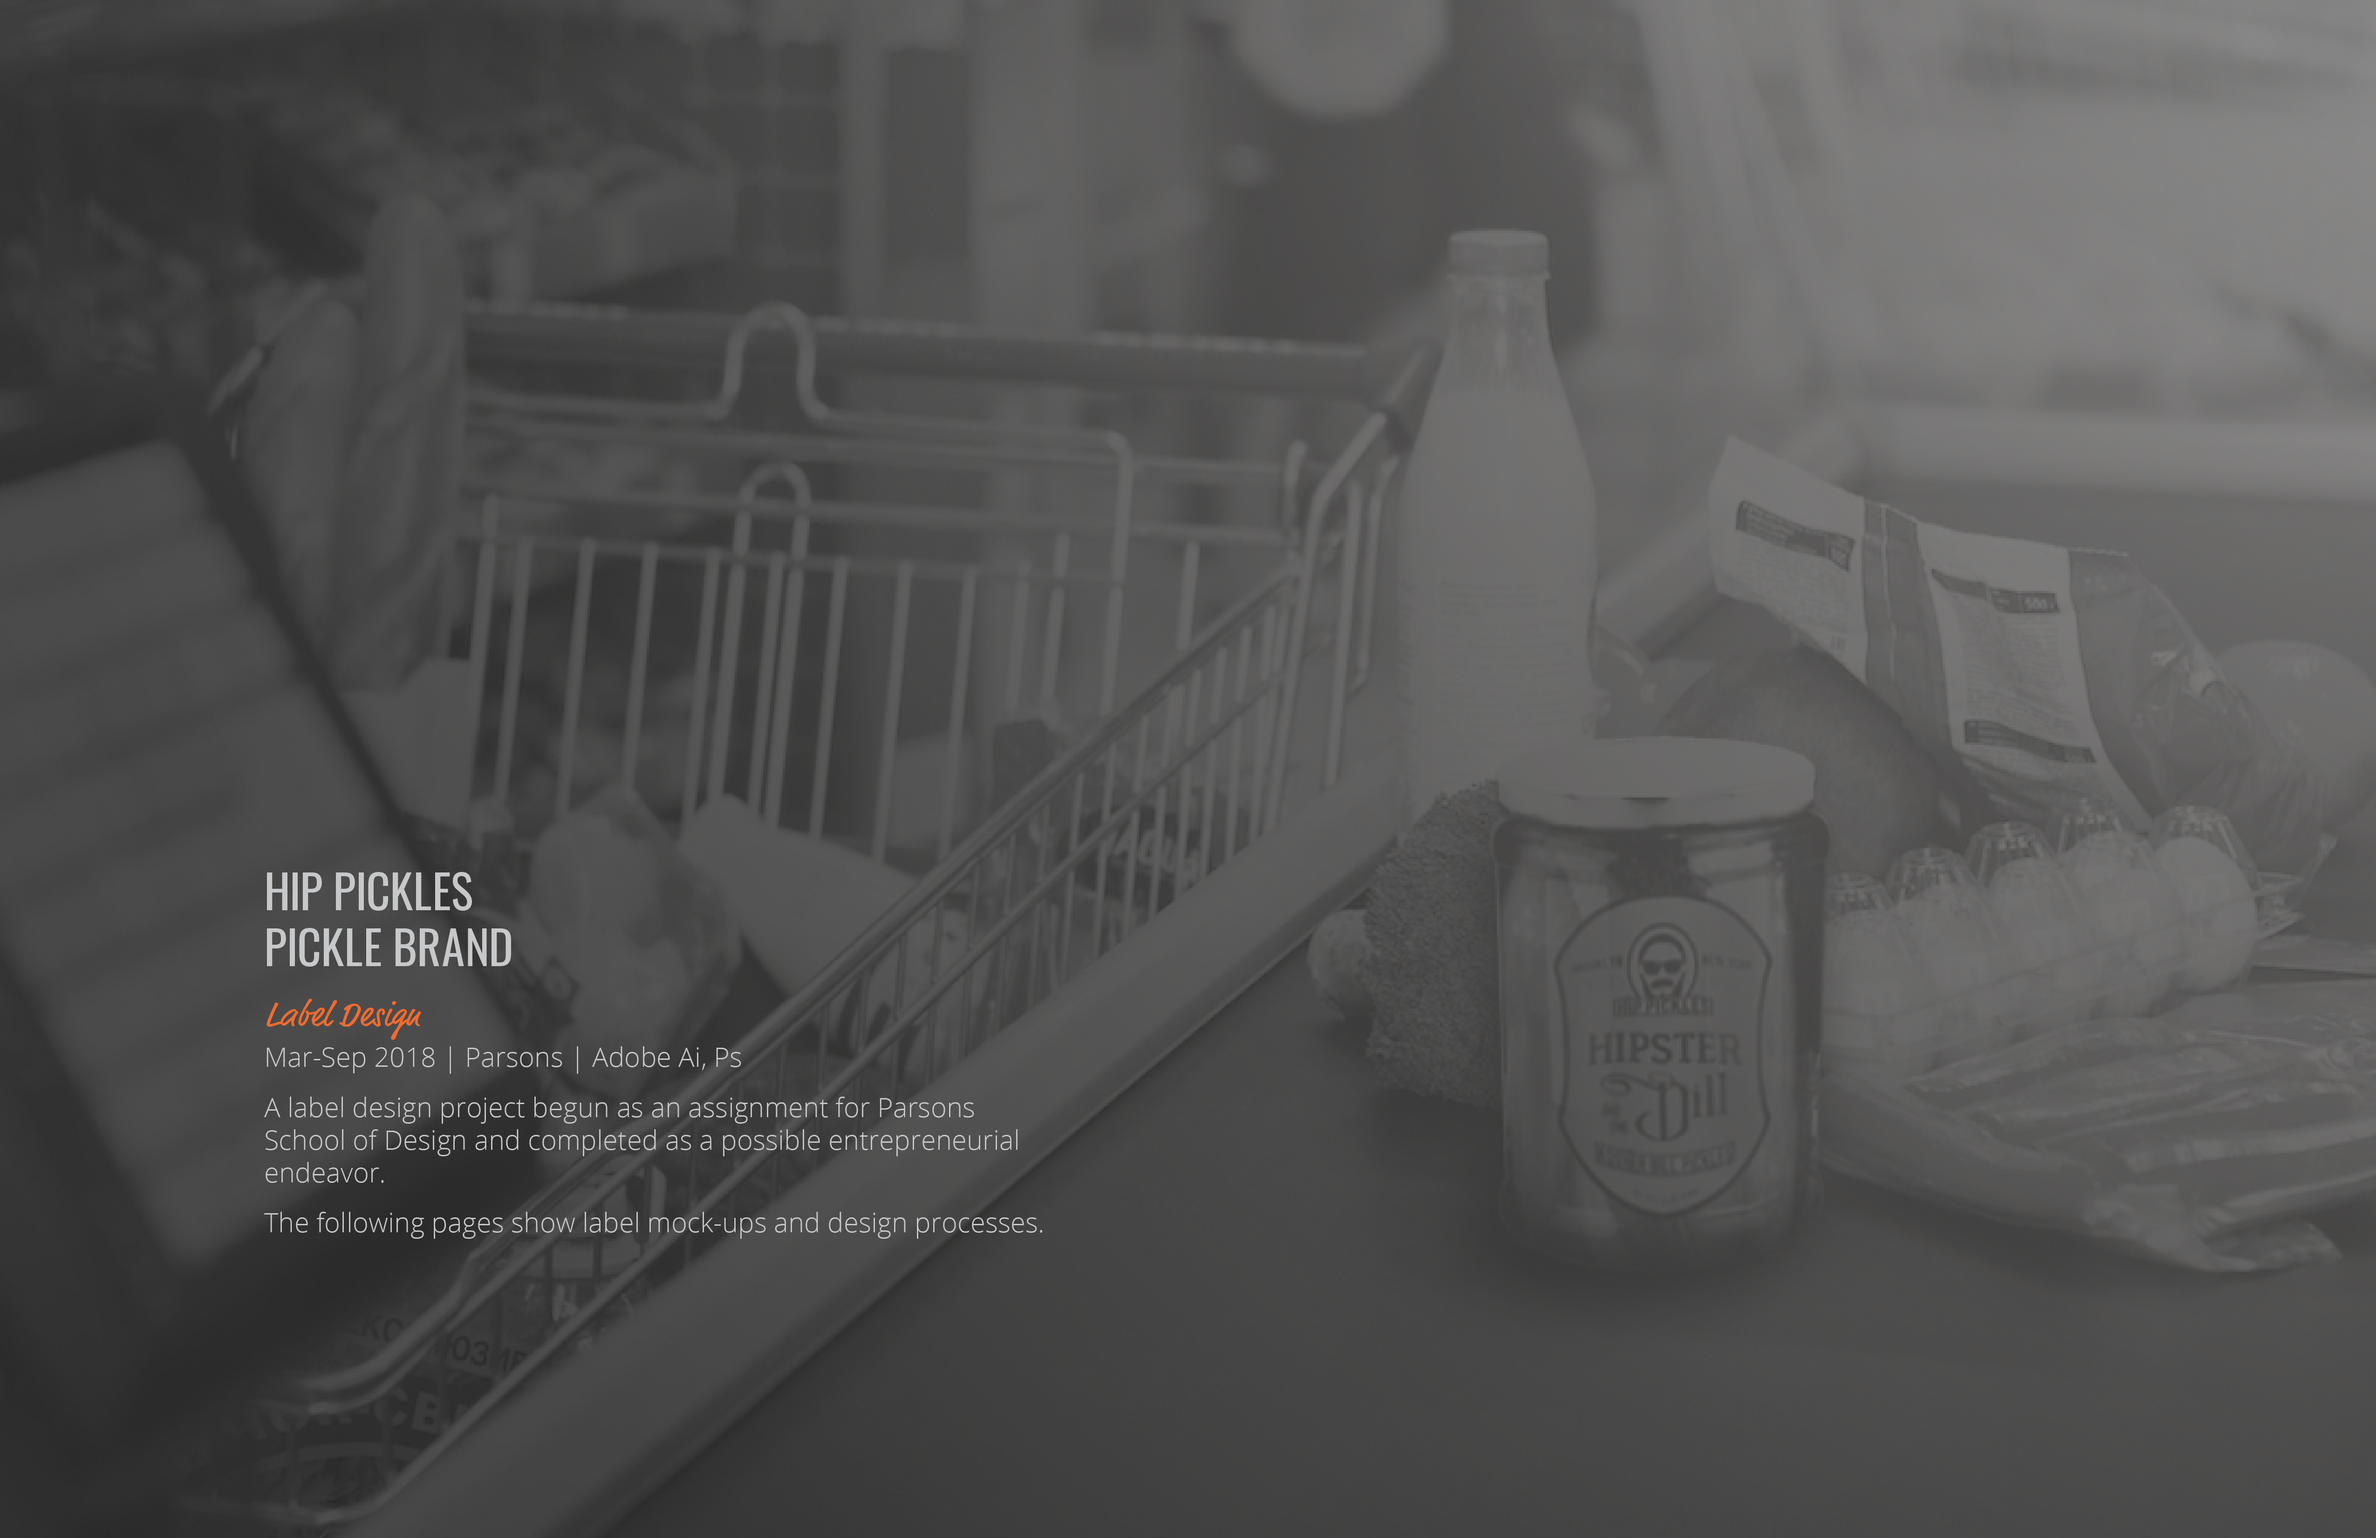
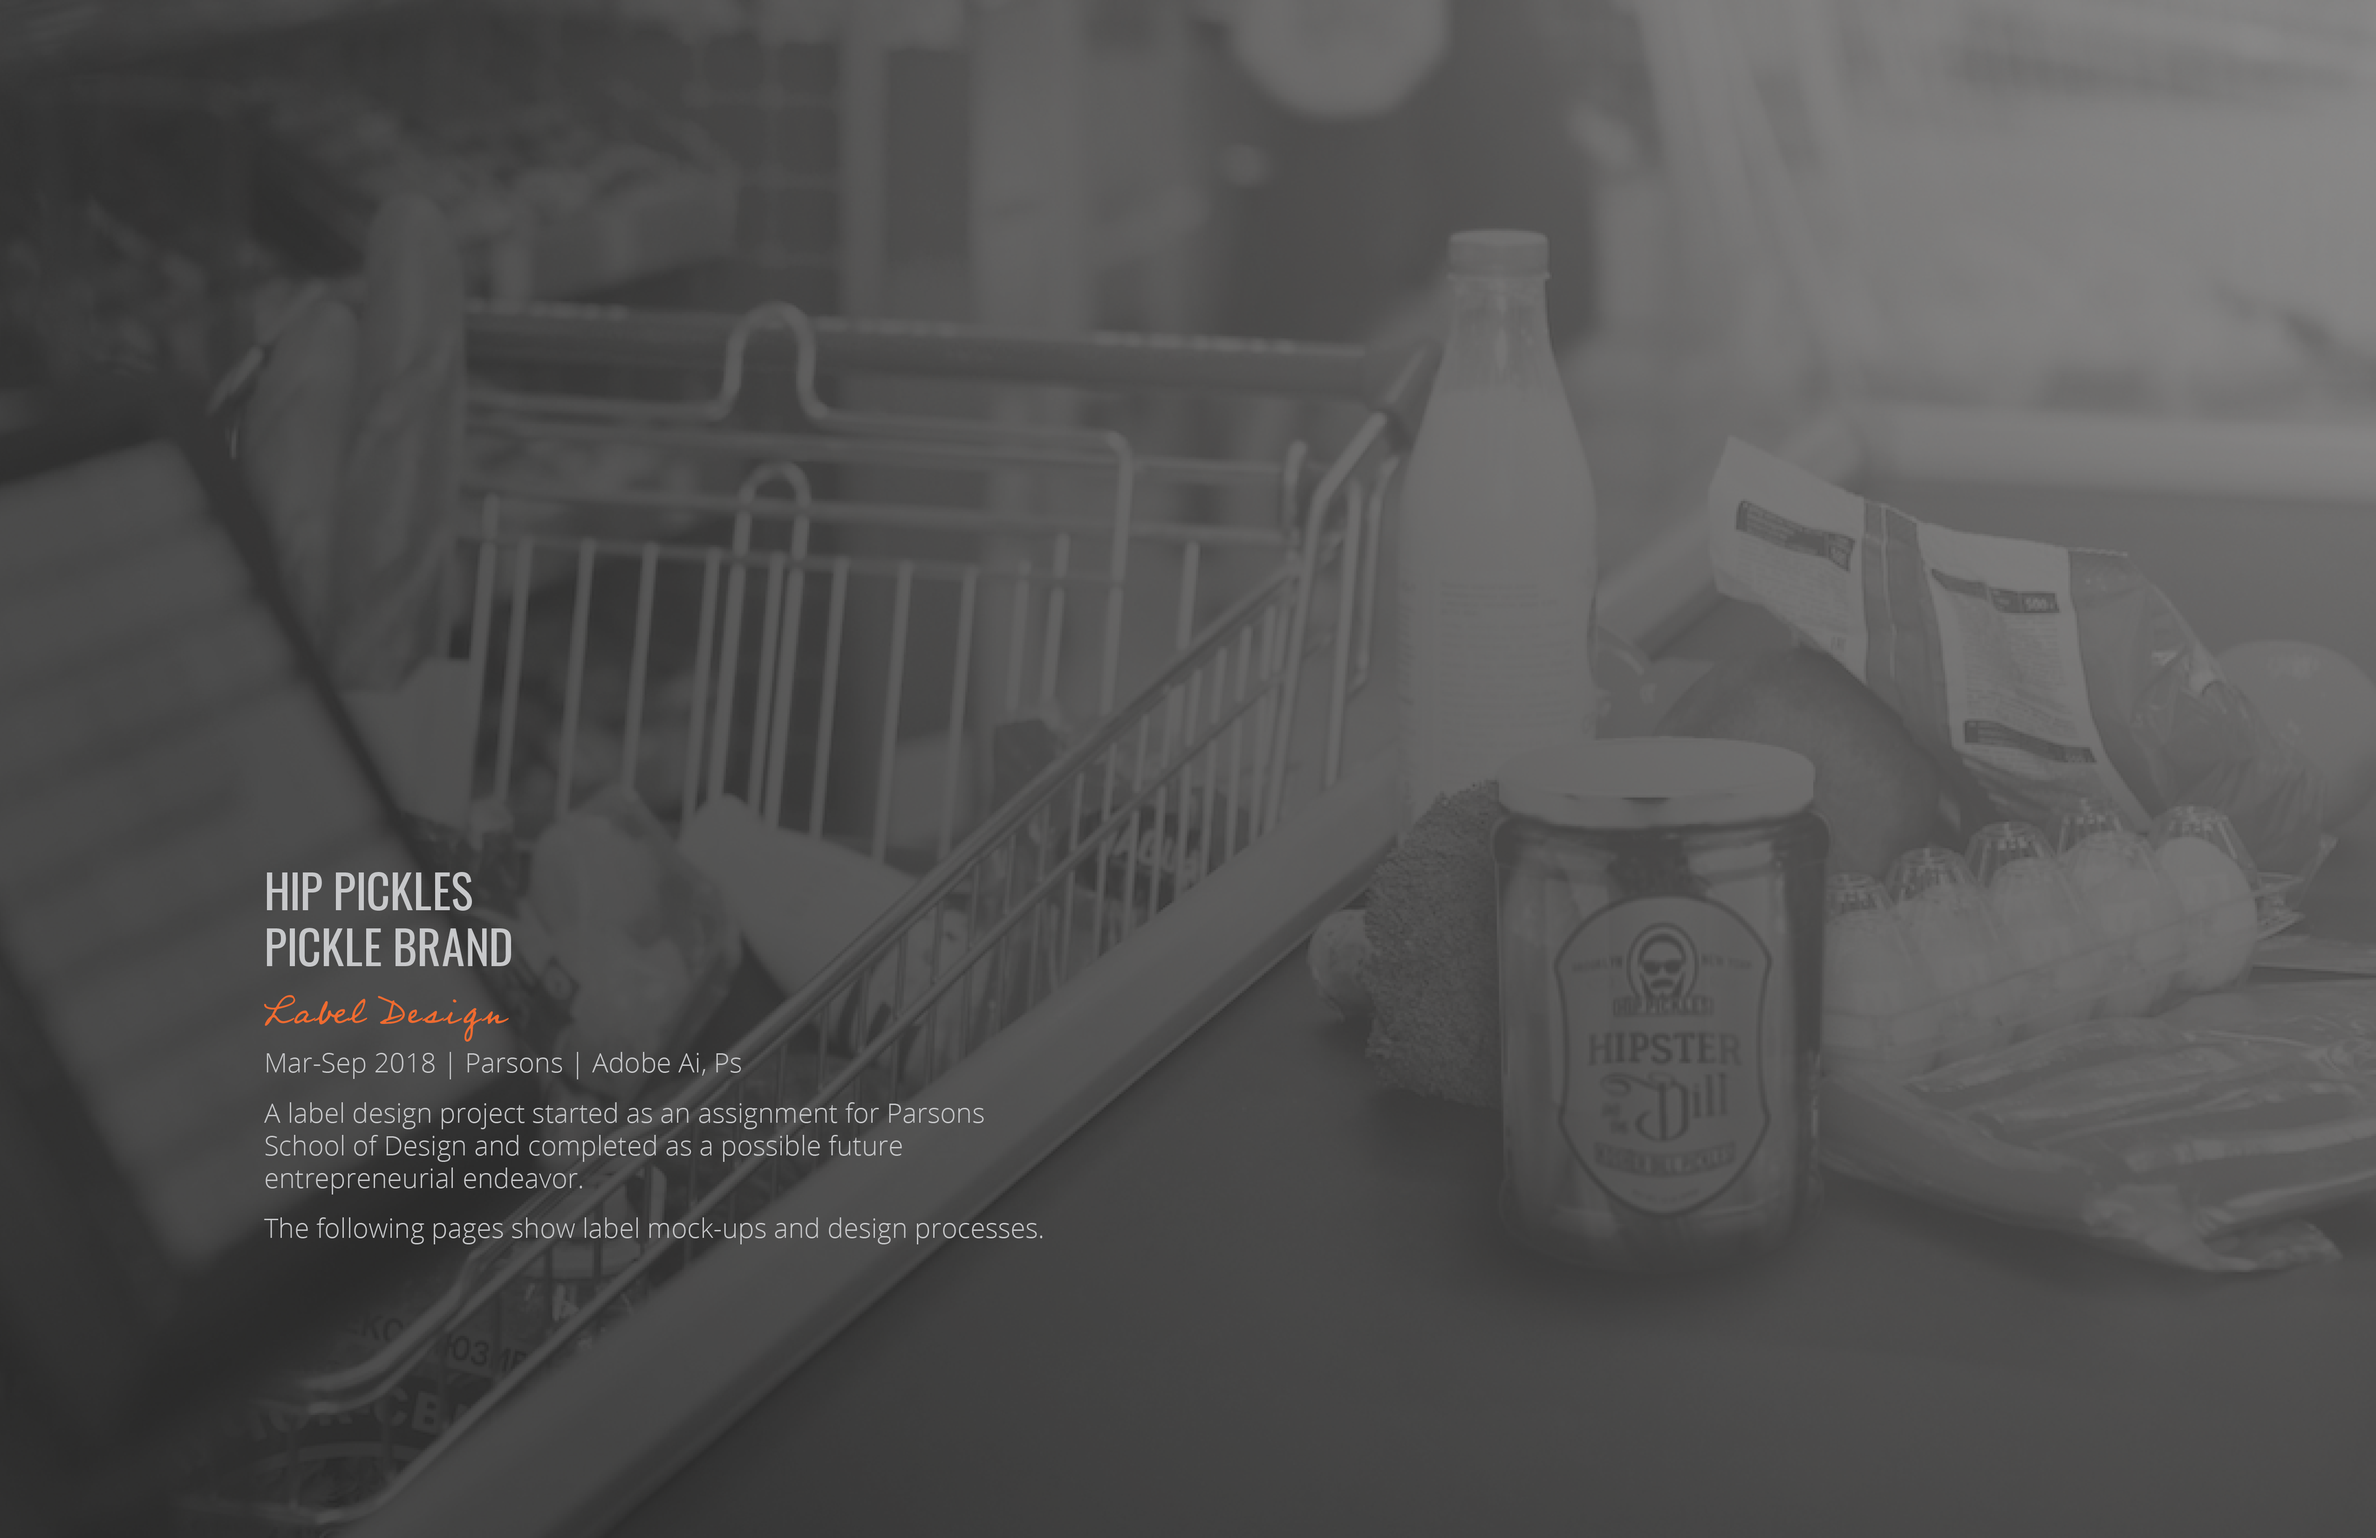
Added Many Image Folders

Changed region(s): [[0.1247, 0.6555, 0.4365, 0.8115]]

diff --git a/ice.html b/ice.html
@@ -25,14 +25,14 @@
 			<!-- <p>Below is an experimental rebrand project I created for The Institute of Culinary Education. Currently, the organization shortens the name to "ICE." I chose instead to focus on "The Institute" and moving toward a logo that is representative of the culinary arts.
 			</p> -->
 			<figure>
-				<img src="images/Display_ICE/Porfolio_ICE1.png" alt="Cover &ndash; The Institute of Culinary Education">
-				<img src="images/Display_ICE/Porfolio_ICE2.png" alt="Lobby &ndash; The Institute of Culinary Education">
-				<img src="images/Display_ICE/Porfolio_ICE3.png" alt="Business Cards &ndash; The Institute of Culinary Education">
-				<img src="images/Display_ICE/Porfolio_ICE4.png" alt="Digital &ndash; The Institute of Culinary Education">
-				<img src="images/Display_ICE/Porfolio_ICE5.png" alt="Brochure &ndash; The Institute of Culinary Education">
-				<img src="images/Display_ICE/Porfolio_ICE6.png" alt="Posters &ndash; The Institute of Culinary Education">
-				<img src="images/Display_ICE/Porfolio_ICE7.png" alt="Process &ndash; The Institute of Culinary Education">
-				<img src="images/Display_ICE/Porfolio_ICE8.png" alt="Style Guide &ndash; The Institute of Culinary Education">
+				<img src="images/Display_ICE/Porfolio_ICE_page_1.png" alt="Cover &ndash; The Institute of Culinary Education">
+				<img src="images/Display_ICE/Porfolio_ICE_page_2.png" alt="Lobby &ndash; The Institute of Culinary Education">
+				<img src="images/Display_ICE/Porfolio_ICE_page_3.png" alt="Business Cards &ndash; The Institute of Culinary Education">
+				<img src="images/Display_ICE/Porfolio_ICE_page_4.png" alt="Digital &ndash; The Institute of Culinary Education">
+				<img src="images/Display_ICE/Porfolio_ICE_page_5.png" alt="Brochure &ndash; The Institute of Culinary Education">
+				<img src="images/Display_ICE/Porfolio_ICE_page_6.png" alt="Posters &ndash; The Institute of Culinary Education">
+				<img src="images/Display_ICE/Porfolio_ICE_page_7.png" alt="Process &ndash; The Institute of Culinary Education">
+				<img src="images/Display_ICE/Porfolio_ICE_page_8.png" alt="Style Guide &ndash; The Institute of Culinary Education">
 			</figure>
     </main>
     <footer>

diff --git a/styles/global.css b/styles/global.css
@@ -24,10 +24,11 @@ body {
 }
 
 h1 {
-  font-family: 'ff-market-web', sans-serif;
-  font-size: 1.5rem;
+  font-family: 'professor', sans-serif;
+  font-size: 1.8rem;
   color: #ef6b30;
-  line-height: 1.5rem;
+  line-height: 1.8rem;
+  letter-spacing: 1px;
 }
 
 h2 {
@@ -92,7 +93,7 @@ main {
 p {
   margin-left: 20px;
   margin-right: 20px;
-  line-height: 1.2rem;
+  line-height: 1.3rem;
 }
 
 li {
@@ -137,8 +138,8 @@ figcaption {
   position: absolute;
   bottom: 270px;
   left: 150px;
-  font-family: 'ff-market-web', sans-serif;
-  font-size: 1rem;
+  font-family: 'professor', sans-serif;
+  font-size: 1.3rem;
   color: #ef6b30;
   line-height: 1rem;
 }
